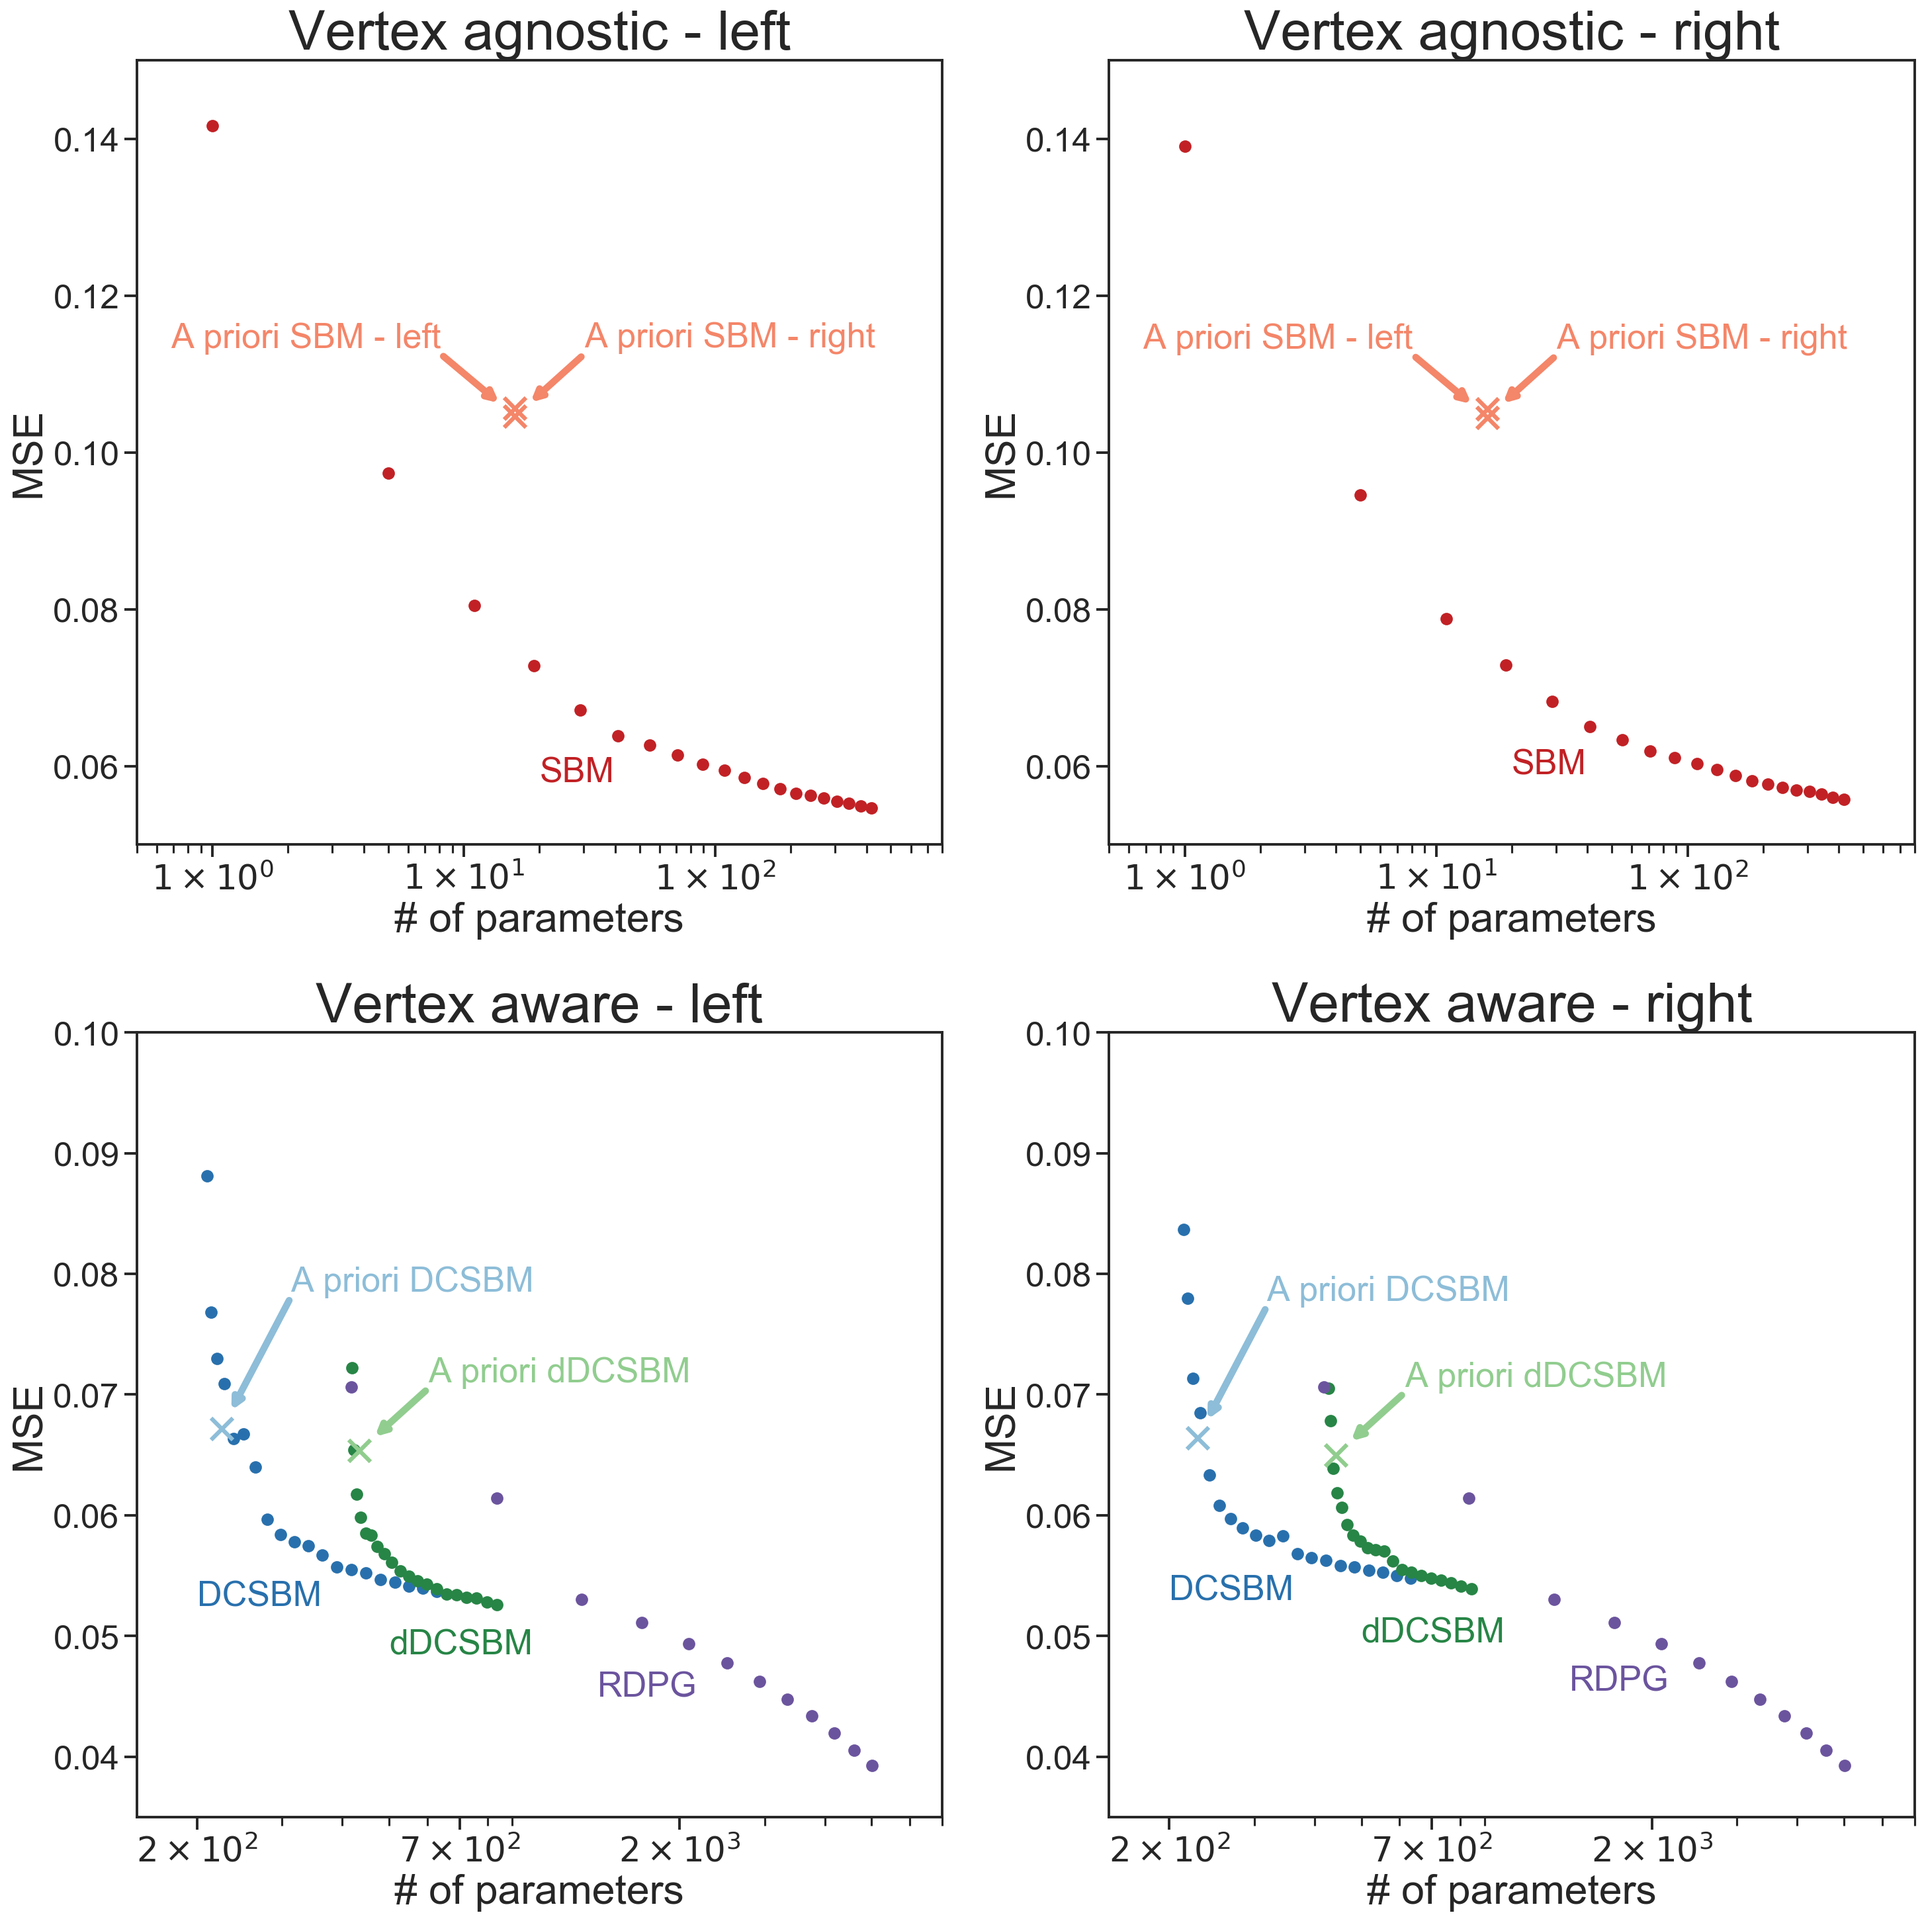
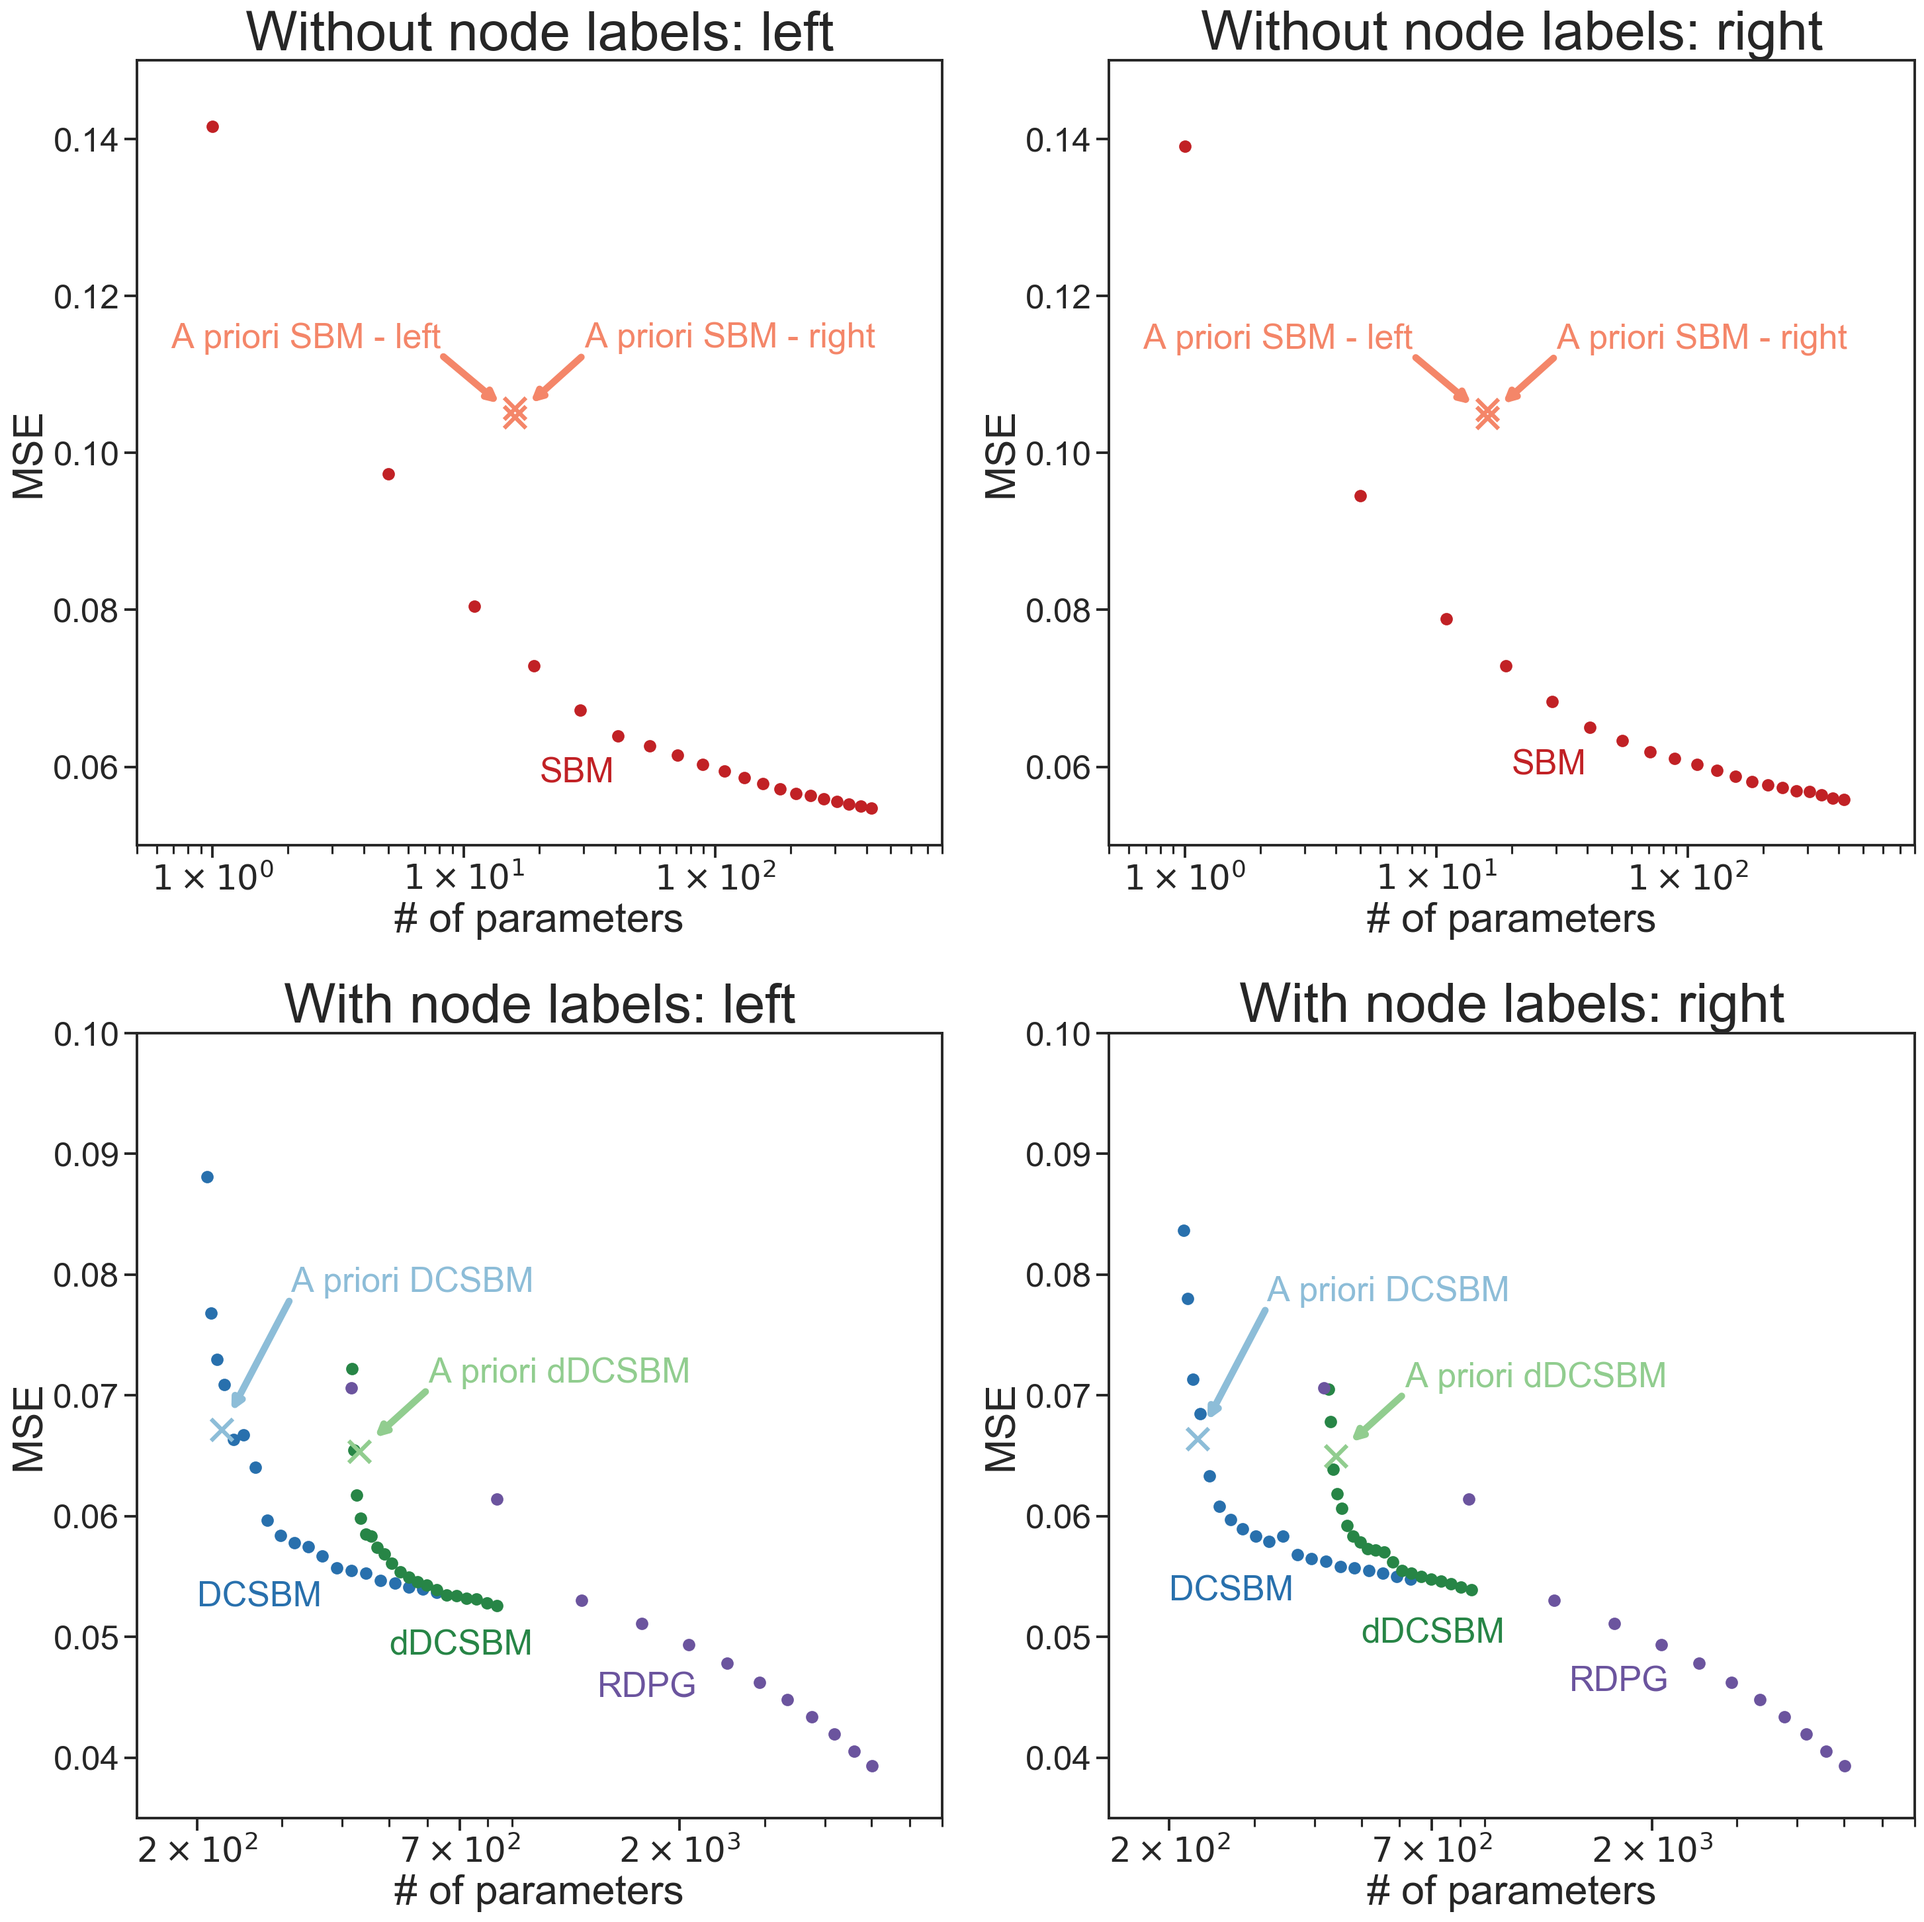
save

diff --git a/src/models/grid_search.py b/src/models/grid_search.py
@@ -5,32 +5,39 @@ import pandas as pd
 
 def format_columns(string):
     if isinstance(string, str):
-        if "mean_test_" in string:
-            string = string.replace("mean_test_", "")
+        # if "mean_test_" in string:
+        #     string = string.replace("mean_test_", "")
+        if "mean_" in string:
+            string = string.replace("mean_", "")
+        if "test_" in string:
+            string = string.replace("test_", "")
+        # elif "mean_" in string:
+        #     string = string.replace("mean_", "")
     return string
 
 
 def remove_columns(df):
     # TODO implement
     # columns
-    # out_df.drop(
-    #     columns=[
-    #         "std_fit_time",
-    #         "std_score_time",
-    #         "split0_test_score",
-    #         "std_test_score",
-    #     ],
-    #     inplace=True,
-    # )
+    columns = df.columns.values
+    remove = []
+    bad_keys = ["std_", "split0_"]
+    for column in columns:
+        for bad_key in bad_keys:
+            if bad_key in column:
+                remove.append(column)
+                continue
+    df.drop(columns=remove, inplace=True)
     return df
 
 
 class DummyCV:
-    def __init__(self):
-        self.n_splits = 1
+    def __init__(self, n_init=1):
+        self.n_splits = n_init
 
     def split(self, X, y, groups=None):
-        yield (np.arange(X.shape[0]), np.arange(X.shape[0]))
+        for i in range(self.n_splits):
+            yield (np.arange(X.shape[0]), np.arange(X.shape[0]))
 
     def get_n_splits(self, X, y, groups=None):
         return self.n_splits
@@ -48,6 +55,7 @@ class GridSearchUS(GridSearchCV):
         pre_dispatch="2*n_jobs",
         error_score="raise-deprecating",
         return_train_score=False,
+        n_init=6,
     ):
         super().__init__(
             estimator,
@@ -62,11 +70,16 @@ class GridSearchUS(GridSearchCV):
             error_score=error_score,
             return_train_score=False,
         )
+        self.n_init = n_init
 
     def fit(self, X, y=None):
-        sup = super().fit(X, y=y)
-        cv_results = pd.DataFrame.from_dict(sup.cv_results_)
-        cv_results = remove_columns(cv_results)
-        cv_results.rename(columns=format_columns, inplace=True)
-        self.cv_results_ = cv_results
+        results = []
+        for i in range(self.n_init):
+            sup = super().fit(X, y=y)
+            temp_results = pd.DataFrame.from_dict(sup.cv_results_)
+            temp_results = remove_columns(temp_results)
+            temp_results.rename(columns=format_columns, inplace=True)
+            results.append(temp_results)
+        results_df = pd.concat(results, ignore_index=True)
+        self.cv_results_ = results_df
         return self

diff --git a/reports/figures/vertex_both_mse/vertex_both_mse.py b/reports/figures/vertex_both_mse/vertex_both_mse.py
@@ -254,7 +254,7 @@ plot_arrow(
 )
 
 
-current_ax.set_title("Vertex agnostic - left", fontsize=title_fontsize)
+current_ax.set_title("Without node labels: left", fontsize=title_fontsize)
 current_ax.set_xscale("log")
 current_ax.set_xlabel("# of parameters", fontsize=axis_label_fontsize)
 current_ax.set_ylabel("MSE", fontsize=axis_label_fontsize)
@@ -309,7 +309,7 @@ plot_arrow(
 )
 
 # labels
-current_ax.set_title("Vertex agnostic - right", fontsize=title_fontsize)
+current_ax.set_title("Without node labels: right", fontsize=title_fontsize)
 current_ax.set_xscale("log")
 current_ax.set_xlabel("# of parameters", fontsize=axis_label_fontsize)
 current_ax.set_ylabel("MSE", fontsize=axis_label_fontsize)
@@ -401,7 +401,7 @@ plot_arrow(
 
 
 # labels
-current_ax.set_title("Vertex aware - left", fontsize=title_fontsize)
+current_ax.set_title("With node labels: left", fontsize=title_fontsize)
 current_ax.set_xscale("log")
 current_ax.set_xlabel("# of parameters", fontsize=axis_label_fontsize)
 current_ax.set_ylabel("MSE", fontsize=axis_label_fontsize)
@@ -477,7 +477,7 @@ plot_arrow(
 )
 
 # labels
-current_ax.set_title("Vertex aware - right", fontsize=title_fontsize)
+current_ax.set_title("With node labels: right", fontsize=title_fontsize)
 current_ax.set_xscale("log")
 current_ax.set_xlabel("# of parameters", fontsize=axis_label_fontsize)
 current_ax.set_ylabel("MSE", fontsize=axis_label_fontsize)

diff --git a/setup.py b/setup.py
@@ -1,5 +1,13 @@
 from setuptools import find_packages, setup
 
+REQUIRED_PACKAGES = [
+    "networkx>=2.1",
+    "numpy>=1.8.1",
+    "scikit-learn>=0.19.1",
+    "scipy>=1.1.0",
+    "seaborn>=0.9.0",
+]
+
 setup(
     name="src",
     packages=find_packages(),
@@ -7,4 +15,9 @@ setup(
     description="Modeling the Drosophila larva connectome",
     author="Neurodata",
     license="BSD-3",
+    install_requires=REQUIRED_PACKAGES,
+    dependency_links=[
+        "git+https://github.com/neurodata/graspy.git#egg=dros",
+        "git+https://github.com/neurodata/mgcpy.git#egg=master",
+    ],
 )

diff --git a/notebooks/play.py b/notebooks/play.py
@@ -8,3 +8,13 @@ dcsbm = DCSBMEstimator(directed=True, loops=False, degree_directed=True)
 dcsbm.fit(graph, y=labels)
 dcsbm.mse(graph)
 #%%
+from src.models import GridSearchUS
+from src.models import select_rdpg
+
+n_init = 3
+n_components_try = range(1, 5)
+param_grid = dict(n_components=n_components_try)
+select_rdpg(graph, param_grid)
+
+
+#%%
